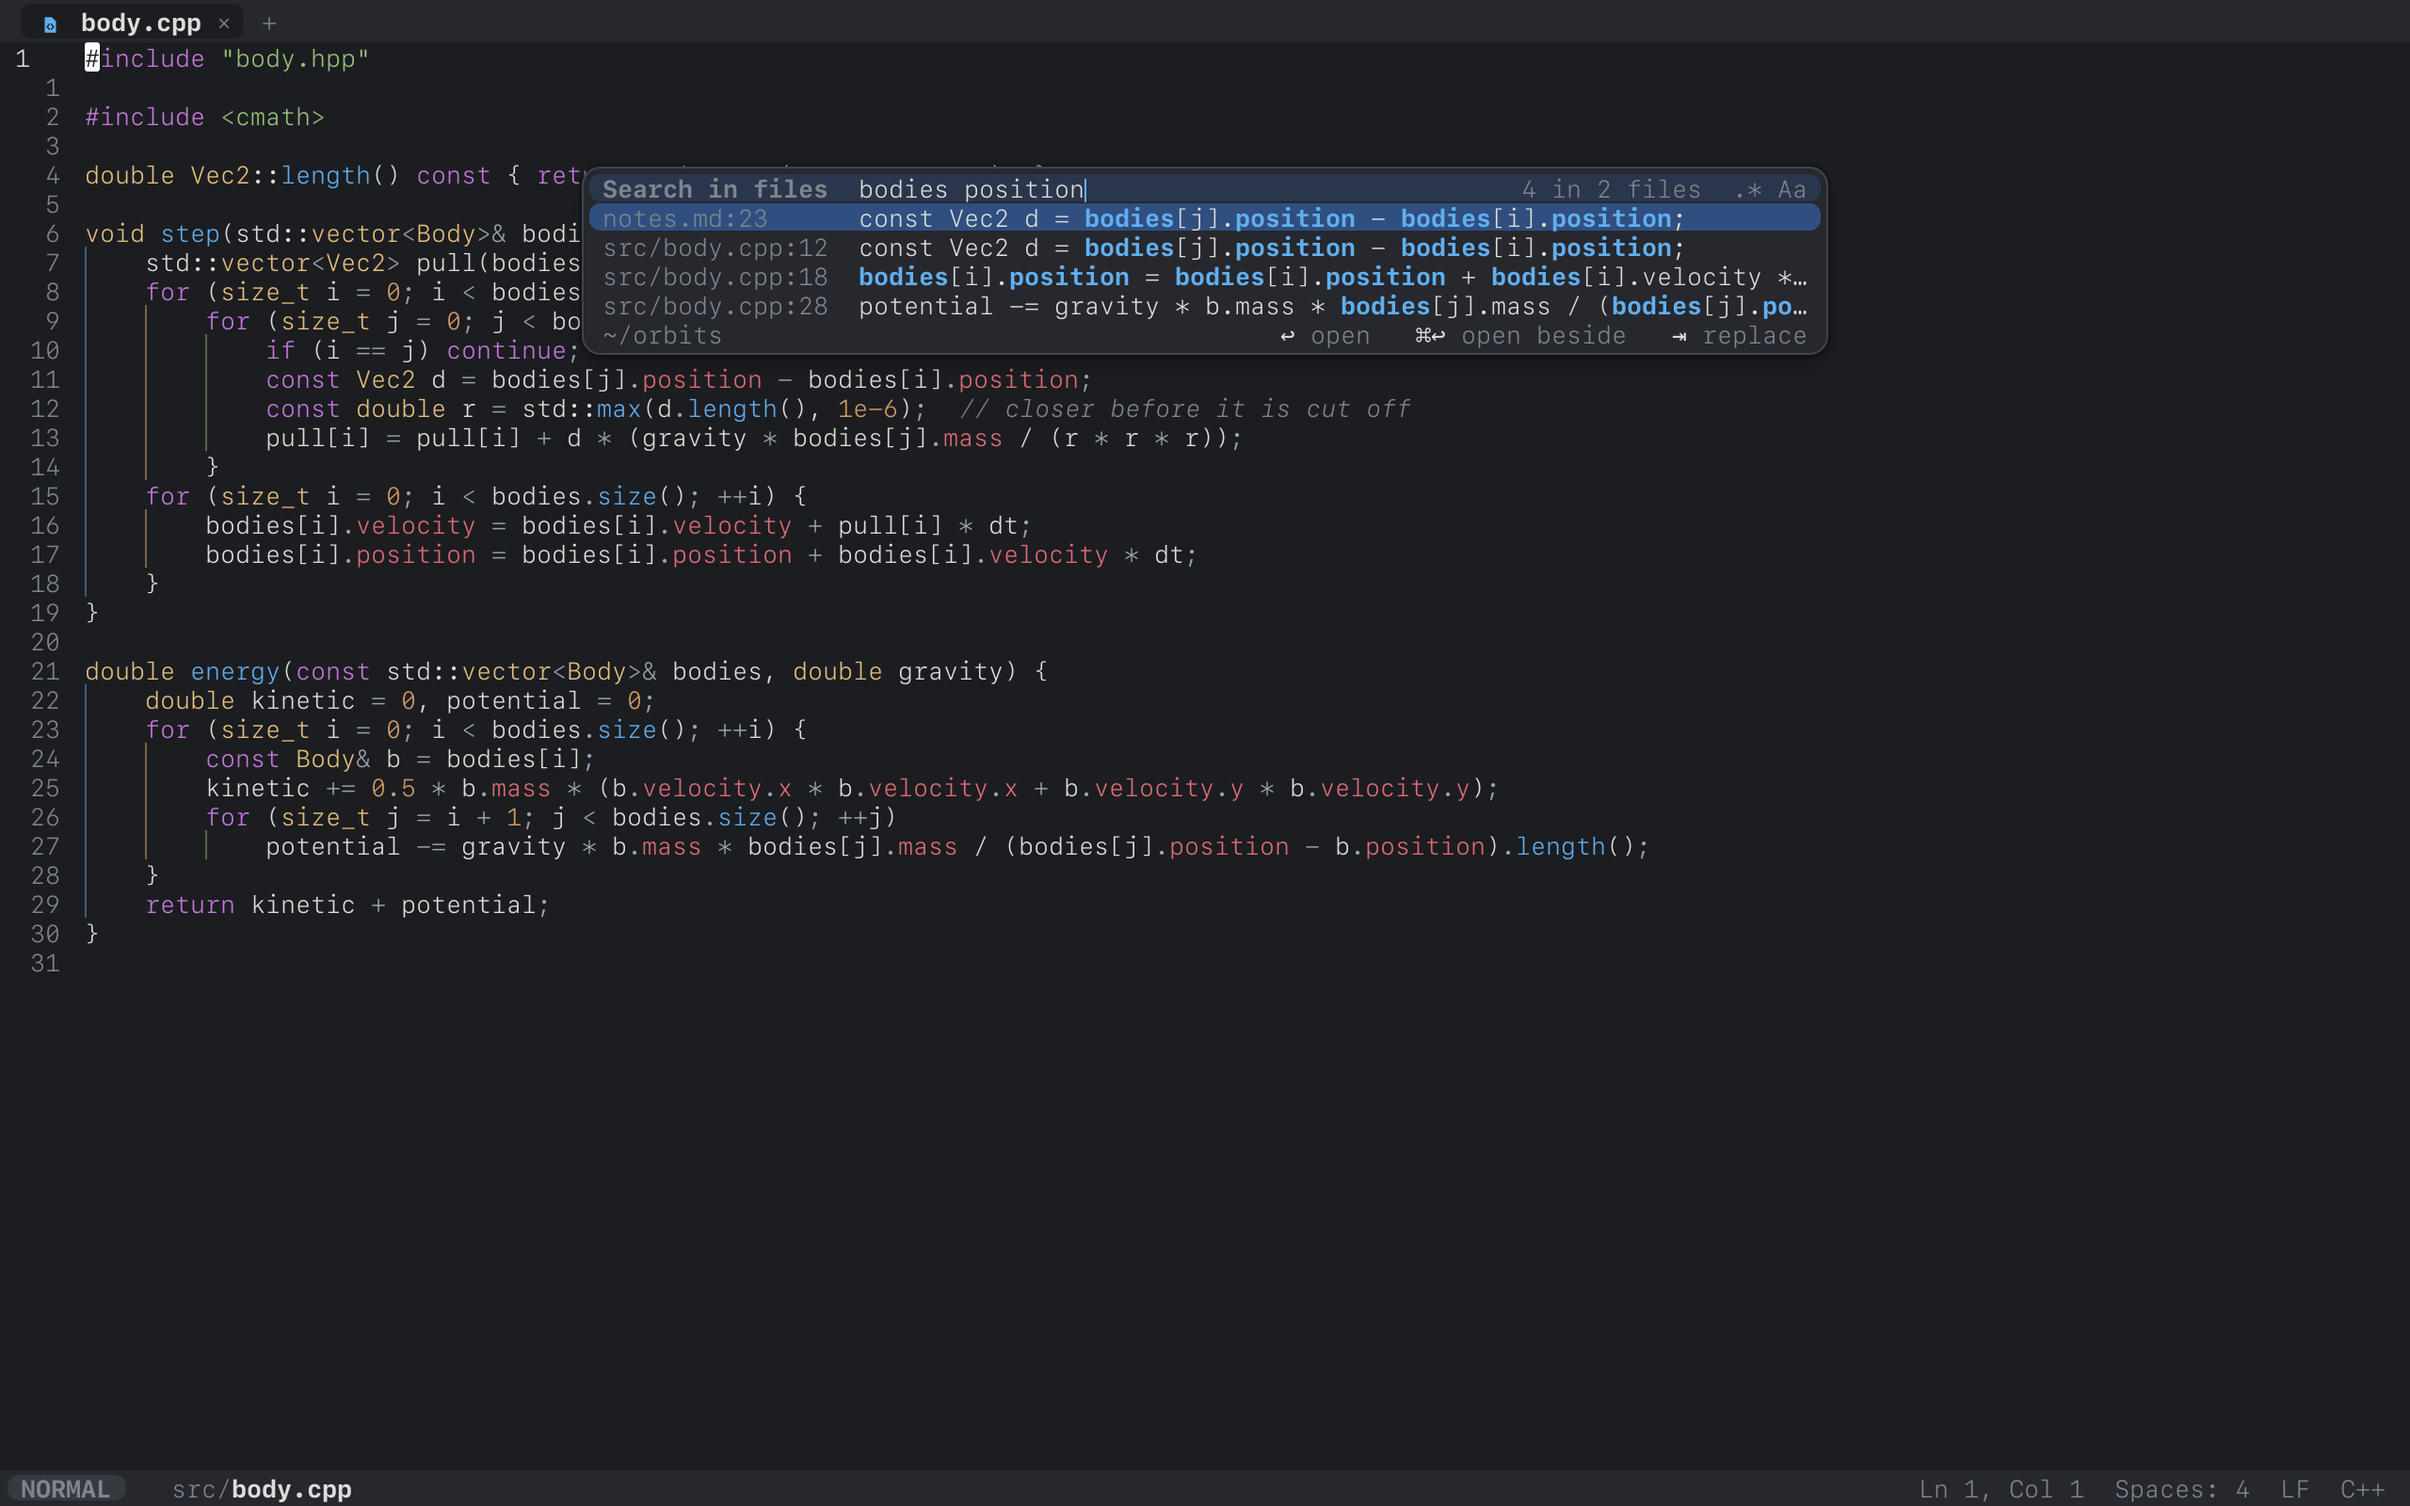
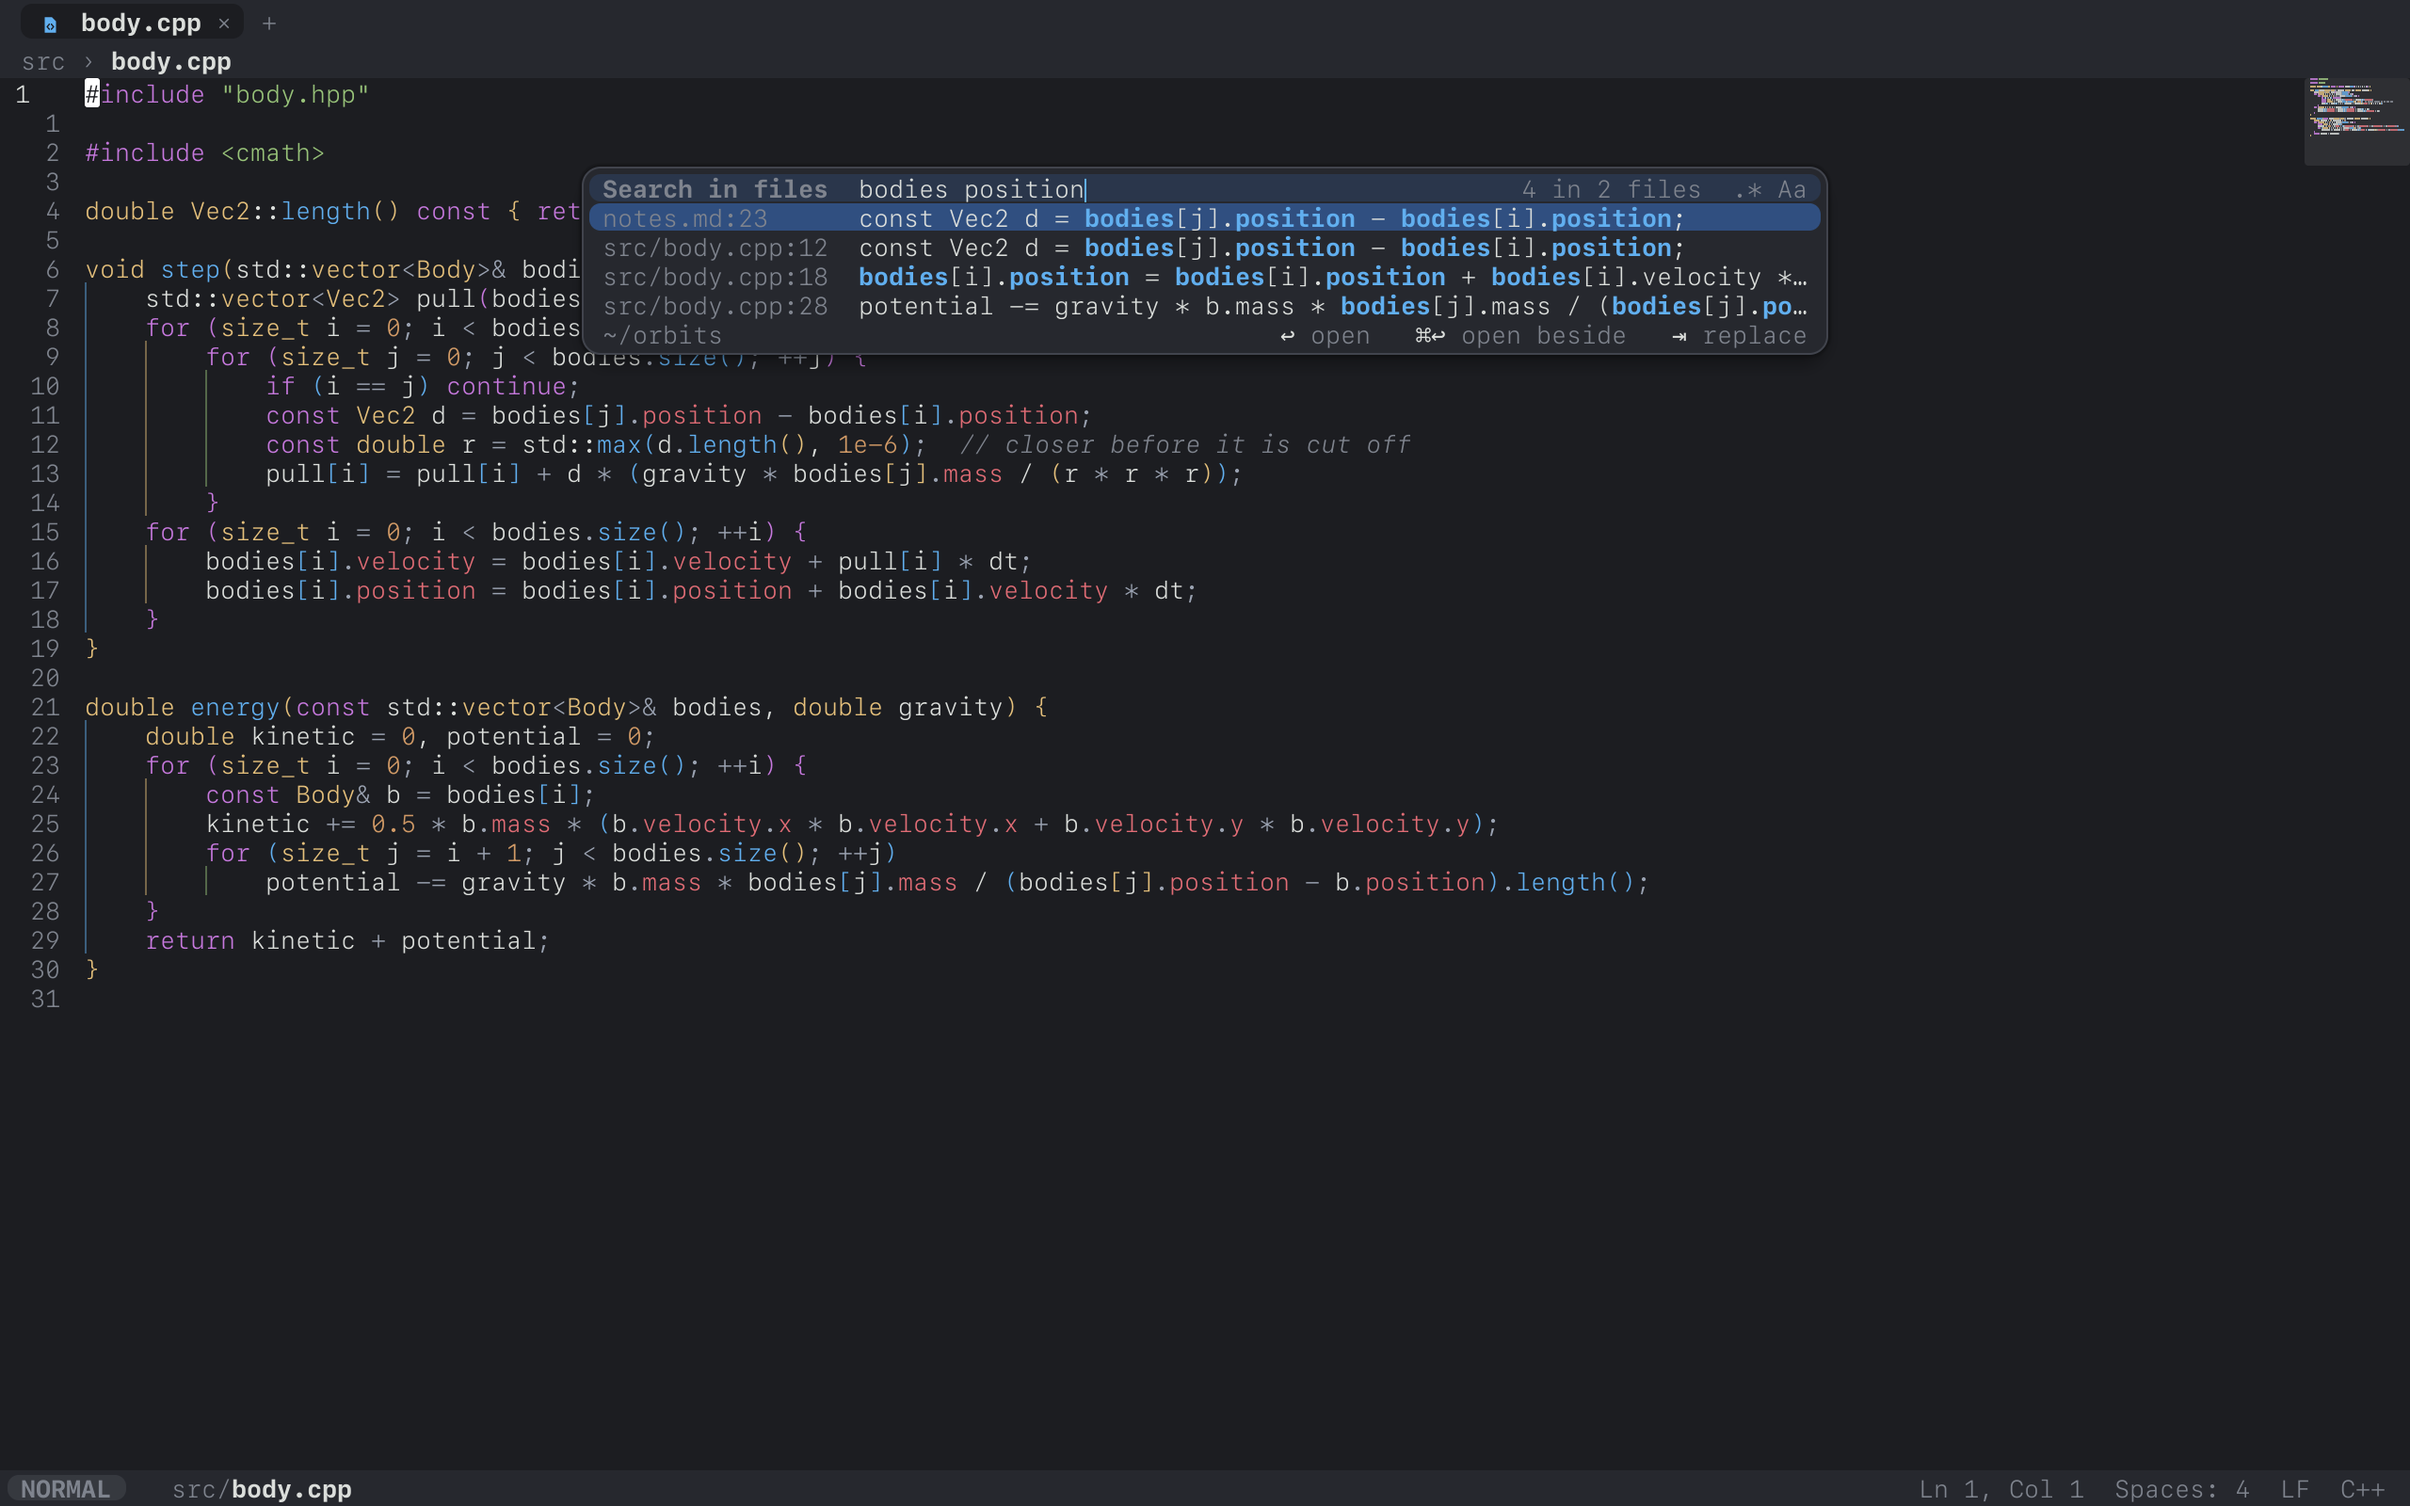
README: screenshots and animations of blit as it is now
Every picture made again by docs/media/make.sh with the current build,
and new ones: peek, the calls to a function, local history, a notebook,
the assembly beside a file. The GIFs show Vim's dot-repeat, several
carets, the settings screen, distraction-free and presentation modes,
the tree following the disk and a drag into a folder, and a tab dragged
into a split of its own.

Animations come from a smaller window (1600x1000, at three quarters) so
their text reads at the README's width. A step that changes files is
undone before the next frame replays the steps. The README's sections
mention what is new; the old Visual Block still gives way to the two Vim
animations.

diff --git a/README.md b/README.md
@@ -24,6 +24,12 @@ scroll, brackets coloured by depth, and the selection grown node by node.
 
 ![completions from clangd, a problem underlined, inlay hints and the server's colours](docs/media/lsp.png)
 
+Peek a definition in a box under the line, without leaving it; follow the
+calls to a function and from it, a type's supertypes and subtypes; see how
+many references each definition has, after its line.
+
+<img src="docs/media/peek.png" alt="the definition of step() peeked under the line that calls it" width="49%"> <img src="docs/media/calls.png" alt="the calls to step(), as a tree" width="49%">
+
 ## Vim, as Neovim has it
 
 Normal, Insert, Replace, Visual, Visual Line and Visual Block, the command
@@ -34,7 +40,10 @@ Either way: more carets than one (the next match, every match, a column),
 each taking the command, and snippets with tab stops, the servers' and
 your own.
 
-![a block chosen across four lines in Visual Block mode](docs/media/vim.png)
+<img src="docs/media/vimdot.gif" alt="a word changed, then the change repeated with n and ." width="49%"> <img src="docs/media/carets.gif" alt="the next matches added to the carets, all changed at once" width="49%">
+
+Long lines wrap where you want them to, a minimap runs down the right of a
+wide split, and the words of comments, strings and prose are spell-checked.
 
 ## Find anything
 
@@ -49,17 +58,23 @@ files is one undo step a file.
 Sixteen splits, each with its own tabs, dragged where they should go; the
 side panel's tree, problems, Git, profile and debugger; terminals that speak
 xterm, with the mouse, re-wrapping on resize, and sixel and kitty pictures.
+The tree keeps up with whatever else changes the folder, and files are
+moved by dragging them onto a folder.
 
 ![three splits and a terminal](docs/media/splits.png)
+
+<img src="docs/media/splitdrag.gif" alt="a tab dragged to the right edge, becoming a split of its own" width="49%"> <img src="docs/media/tree.gif" alt="files made and removed by another program appearing in the tree, then one dragged into a folder" width="49%">
 
 ## Git
 
 The changed lines beside the text, blame, a Git tab for everything else:
 stage a hunk or the lines chosen, diffs in one column or two, branches,
 History as a graph, searched, a file's or some lines' history, conflicts
-merged three ways, interactive rebase, stash, cherry-pick, tags.
+merged three ways, interactive rebase, stash, cherry-pick, tags, a file
+against any revision, worktrees and submodules, and pull requests through
+gh. And without Git: each file's local history, its text at every save.
 
-![the Git tab and a diff in two columns](docs/media/git.png)
+<img src="docs/media/git.png" alt="the Git tab and a diff in two columns" width="49%"> <img src="docs/media/history.png" alt="a file's local history, one version against the text now" width="49%">
 
 ## A debugger and a profiler
 
@@ -75,6 +90,14 @@ allocation and what leaked.
 
 <img src="docs/media/debug.png" alt="stopped at a breakpoint: the stack, the variables, the line in front" width="49%"> <img src="docs/media/profile.png" alt="a flame graph of the demo program, and its functions by time" width="49%">
 
+## Notebooks and the assembly
+
+Jupyter notebooks open as Python with their cells and outputs, run cell by
+cell in a Python console; a C or C++ file's assembly sits beside it, each
+line's instructions lit as the cursor comes to the line.
+
+<img src="docs/media/notebook.png" alt="a notebook: its cells and their outputs" width="49%"> <img src="docs/media/asm.png" alt="a file's assembly beside it" width="49%">
+
 ## Markdown, pictures and PDFs
 
 A preview drawn as the file is typed, with Mermaid diagrams, tables and
@@ -88,16 +111,21 @@ with their text to choose, copy and search, their links and outline.
 `blit ssh://host/path` works on a file or a folder somewhere else as if it
 were here: its tree, saves, Search in files, terminals, builds, the
 debugger and the profiler all run there, through a small agent blit
-carries and starts over ssh.
+carries and starts over ssh. `docker://container/path` does the same in a
+container, and "Open in the dev container" makes one from the folder's
+devcontainer.json.
 
 ## Make it yours
 
 Settings, keys, commands and plugins in `~/.config/blit/init.lua` (Lua 5.5;
-blit itself ships no Lua), themes previewed as the list is walked, a
+blit itself ships no Lua), or changed on a settings screen that writes
+them there; distraction-free and presentation modes; themes previewed as
+the list is walked, a
 command search with every command and its keys, Search everywhere (files,
 symbols, commands and settings in one box), and new projects (CMake,
 Meson, uv, with tests and libraries) from a form.
 
+<img src="docs/media/settings.gif" alt="the settings screen: relative numbers turned off, then a theme picked" width="49%"> <img src="docs/media/focus.gif" alt="distraction-free mode, then presentation mode" width="49%">
 <img src="docs/media/theme.gif" alt="Choose a theme: each put on as the list comes to it" width="49%"> <img src="docs/media/commands.png" alt="the command search" width="49%">
 <img src="docs/media/start.png" alt="the start screen" width="49%"> <img src="docs/media/newproject.png" alt="the New project form" width="49%">
 
@@ -123,6 +151,7 @@ round since the first.
 
 - **[Releases](https://github.com/ESiegman/blit/releases)**: blit.app for
   Apple silicon Macs, and an AppImage and a tarball for x86-64 Linux.
+  blit.app and the AppImage offer each newer release, and install it.
 - **Homebrew**: `brew tap ESiegman/blit https://github.com/ESiegman/blit`
   and `brew install --HEAD ESiegman/blit/blit`.
 - **From source**, with GCC 16, CMake and Ninja:
